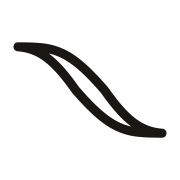
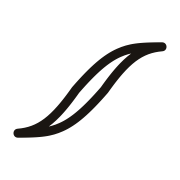
bump @hysres/tokens 0.3.0 → 0.4.0 (flip B-H mark) (#14)
* bump @hysres/tokens 0.3.0 → 0.4.0 (flip B-H mark)

The mark previously traced upper-left → lower-right, which is the
physically wrong direction for a ferromagnetic hysteresis loop
(M co-decreasing with H). Tokens v0.4.0 flips it to lower-left →
upper-right, matching Wikipedia / textbook curves.

Changes here:
  package.json + lock     bump @hysres/tokens ^0.3.0 → ^0.4.0
  public/favicon.svg      sync from node_modules/@hysres/tokens/assets/
  public/favicon-{16,32,192,512}.png
  public/apple-touch-icon.png
                          regenerated via sips at original sizes
                          (16 / 32 / 192 / 512 / 180 px)

No structural changes; metadata.icons contract in app/layout.tsx
unchanged. Favicons cache aggressively — users may need a hard
refresh to see the new orientation.

* fix: flip 3 inlined B-H paths (icon.svg + BHMark + ChartFrame)

The tokens v0.4.0 bump in the parent commit only updated the
favicon copy in public/. It missed three places where the B-H
path string is inlined in web-repo source — they don't consume
tokens at runtime:

  src/app/icon.svg                          Next.js app-icon convention
  src/app/components/BHMark.tsx             PATH string constant
  src/app/components/charts/ChartFrame.tsx  inline watermark <path>

All three flipped to the same canonical orientation as the
tokens v0.4.0 release. Verified locally via next dev that
.hero-mark on / and /zh now traces lower-left → upper-right.
[…]

Changed region(s): [[0.0556, 0.2222, 0.9444, 0.7778]]

diff --git a/src/app/components/charts/ChartFrame.tsx b/src/app/components/charts/ChartFrame.tsx
@@ -32,7 +32,7 @@ export default function ChartFrame({ title, ariaLabel, children }: Props) {
       <g transform="translate(440 300)" opacity={0.7}>
         <g transform="scale(0.18)">
           <path
-            d="M 10 6 C 30 6, 38 7, 58 30 C 70 47, 78 53, 90 54 C 70 54, 62 53, 42 30 C 30 13, 22 7, 10 6 Z"
+            d="M 10 54 C 30 54, 38 53, 58 30 C 70 13, 78 7, 90 6 C 70 6, 62 7, 42 30 C 30 47, 22 53, 10 54 Z"
             fill="none"
             stroke="var(--ink-3)"
             strokeWidth={2}

diff --git a/src/app/components/BHMark.tsx b/src/app/components/BHMark.tsx
@@ -5,7 +5,7 @@ type Props = {
 };
 
 const PATH =
-  'M 10 6 C 30 6, 38 7, 58 30 C 70 47, 78 53, 90 54 C 70 54, 62 53, 42 30 C 30 13, 22 7, 10 6 Z';
+  'M 10 54 C 30 54, 38 53, 58 30 C 70 13, 78 7, 90 6 C 70 6, 62 7, 42 30 C 30 47, 22 53, 10 54 Z';
 
 export default function BHMark({
   width = 22,
